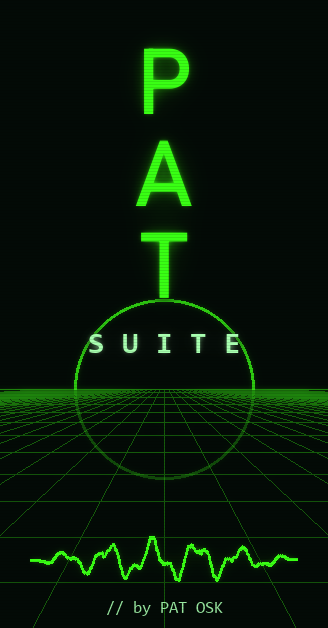
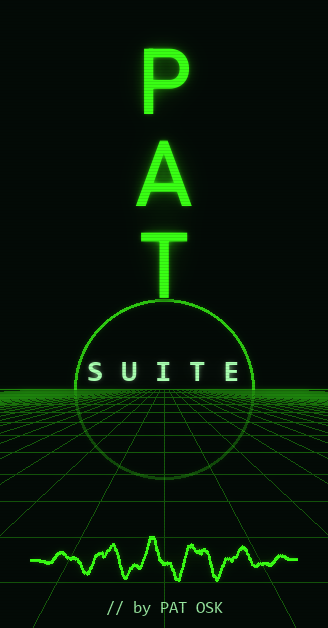
Installer: song volume controls (25% default, loop), SUITE centred in the circle

diff --git a/tools/make-installer-art.py b/tools/make-installer-art.py
@@ -85,7 +85,8 @@ def wizard_image():
         d.text(((w - bw) / 2, 40 + i * 92), ch, font=big, fill=NEON + (255,))
     small = font("consolab.ttf", 30)
     s = "S U I T E"
-    d.text(((w - d.textlength(s, font=small)) / 2, 330), s, font=small, fill=MINT + (255,))
+    # Centred in the circle, sitting on the edge of the floor.
+    d.text((w / 2, int(h * 0.62) - 8), s, font=small, fill=MINT + (255,), anchor="mb")
     wave(d, 30, w - 30, 560, 26, NEON + (255,), width=3)
     glow(img, text)
     tag = Image.new("RGBA", img.size, (0, 0, 0, 0))
